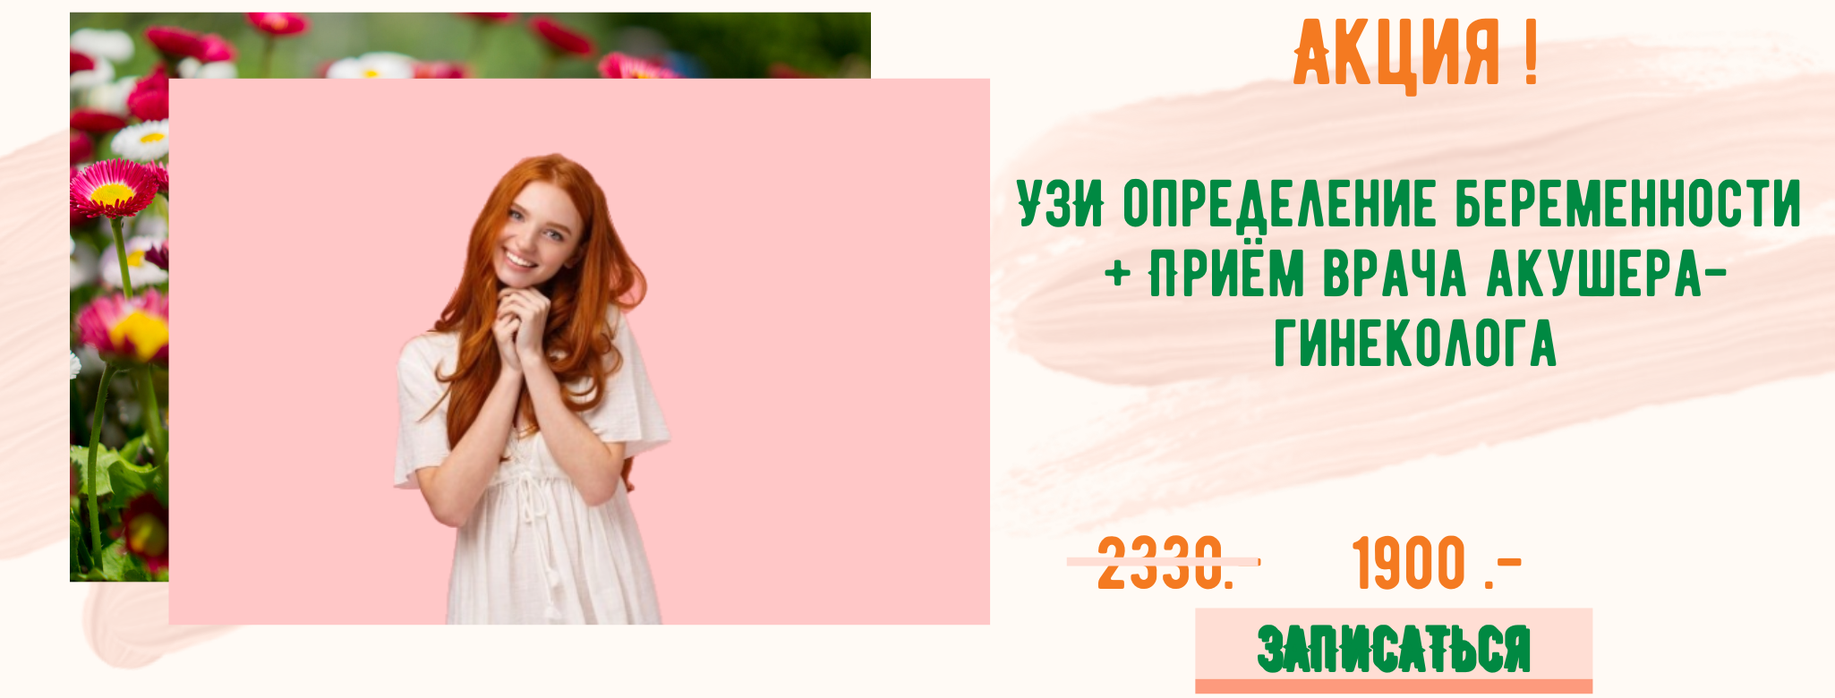
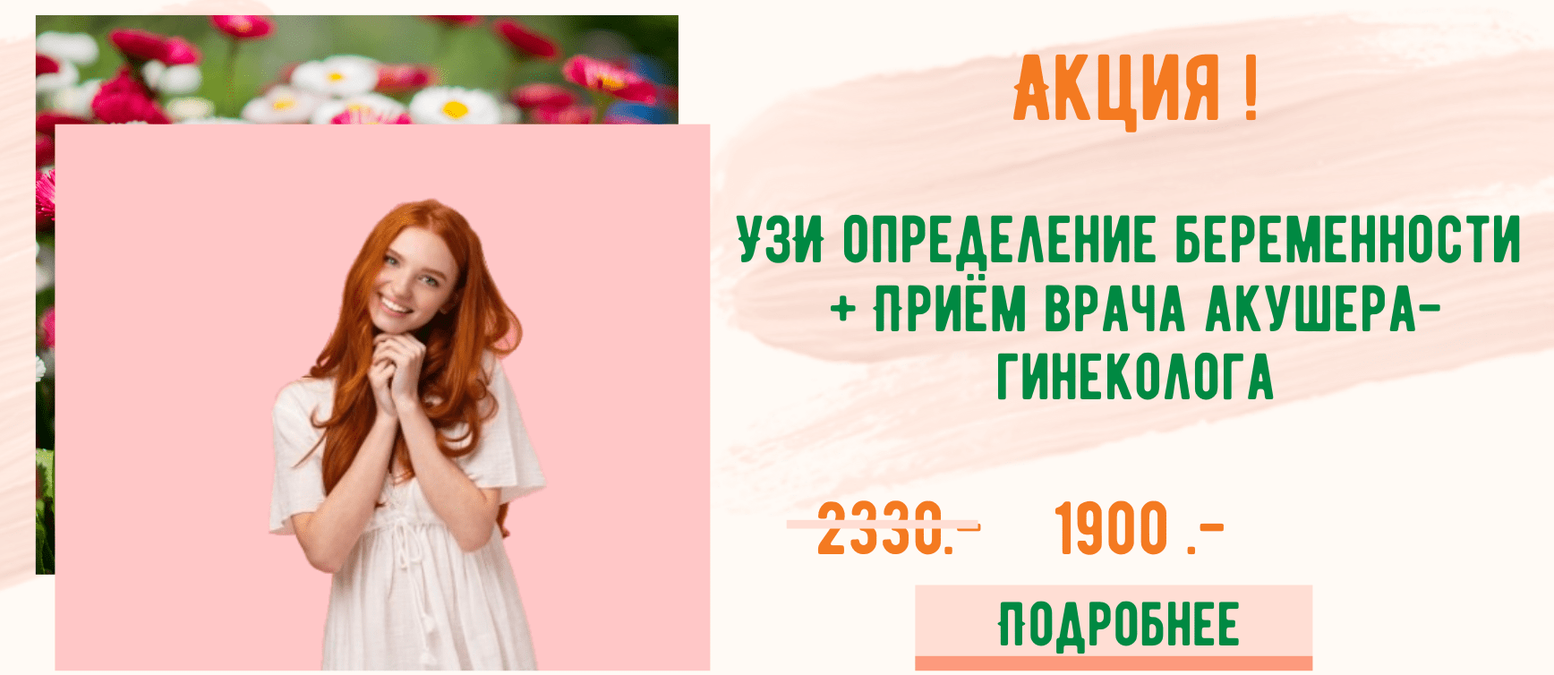
new pics

diff --git a/src/pages/uzi.js b/src/pages/uzi.js
@@ -7,11 +7,11 @@ import { Waypoint } from 'react-waypoint'
 import Header from '../components/HeaderGeneric'
 
 
-import offer01 from '../assets/images/offer_01.png';
-import offer02 from '../assets/images/offer_02.png';
-import offer03 from '../assets/images/offer_03.png';
-import offer04 from '../assets/images/offer_04.png';
-import offer05 from '../assets/images/offer_05.png';
+import offer01 from '../assets/images/1.png';
+import offer02 from '../assets/images/2.png';
+import offer03 from '../assets/images/3.png';
+import offer04 from '../assets/images/4.png';
+import offer05 from '../assets/images/5.png';
 
 
 class Generic extends React.Component {
@@ -57,28 +57,44 @@ class Generic extends React.Component {
             <p>Выявить причину и назначить лечение поможет оборудование экспертного класса и расшифровка от опытных специалистов!</p>
             <br/>
             
-            <a href="https://www.doctor-chita.ru/contactform/" target="_blank">
-            <img src={offer04} alt="Ваш + Доктор | УЗИ" width="100%"/>
-            <h2>АКЦИЯ ! УЗИ молочных желез с цветным доплеровским картированием + УЗИ щитовидной железы 990 рублей (вместо 1510 рублей)</h2>
-            </a>
             
-            
-            
+            <header class="major">
+            <h2>АКЦИЯ!</h2>
+            </header>
             <a href="https://www.doctor-chita.ru/contactform/" target="_blank">
             <img src={offer02} alt="Ваш + Доктор | Гинеколог" width="100%"/>
-            <h2>АКЦИЯ ! Прием (осмотр и консультация) врача акушера-гинеколога первичный + проведение УЗИ определения беременности 1900 рублей (вместо 2330 рублей )</h2>
             </a>
+            <h3>УЗИ молочных желез с цветным доплеровским картированием + УЗИ щитовидной железы 990 рублей (вместо 1510 рублей)</h3>
             
             
+            
+            <header class="major">
+            <h2>АКЦИЯ!</h2>
+            </header>
             <a href="https://www.doctor-chita.ru/contactform/" target="_blank">
-            <img src={offer03} alt="Ваш + Доктор | Гинеколог" width="100%"/>
-            <h2>АКЦИЯ ! Прием (осмотр и консультация) врача акушера-гинеколога первичный + проведение УЗИ матки и придатков трансвагинального за 1175 рублей (вместо 1500 рублей )</h2>
+            <img src={offer01} alt="Ваш + Доктор | Гинеколог" width="100%"/>
             </a>
-            
+            <h3>Прием (осмотр и консультация) врача акушера-гинеколога первичный + проведение УЗИ определения беременности 1900 рублей (вместо 2330 рублей)</h3>
+
+
+            <header class="major">
+            <h2>АКЦИЯ!</h2>
+            </header>
             <a href="https://www.doctor-chita.ru/contactform/" target="_blank">
             <img src={offer05} alt="Ваш + Доктор | Гинеколог" width="100%"/>
-            <h2>Прием (осмотр и консультация) врача акушера-гинеколога при планировании беременности + УЗИ за 1900 рублей (вместо 2330 рублей)</h2>
             </a>
+            <h3>Прием (осмотр и консультация) врача акушера-гинеколога первичный + проведение УЗИ матки и придатков трансвагинального за 1175 рублей (вместо 1500 рублей)</h3>
+
+
+            <header class="major">
+            <h2>АКЦИЯ!</h2>
+            </header>
+            <a href="https://www.doctor-chita.ru/contactform/" target="_blank">
+            <img src={offer04} alt="Ваш + Доктор | Гинеколог" width="100%"/>
+            </a>
+            <h3>Прием (осмотр и консультация) врача акушера-гинеколога при планировании беременности + УЗИ за 1900 рублей (вместо 2330 рублей)</h3>
+            
+      
             <p>Ультразвуковое исследование является одним из наиболее популярных и эффективных методов современной диагностики. С помощью УЗИ можно определить болезни внутренних органов, наличие новообразований, воспалений и других нарушений на различных стадиях. Клиника состоит из профессиональных врачей, которые производят сверхточную и тщательную процедуру исследования. Каждый специалист клиники имеет соответствующую квалификацию, что гарантирует высокие результаты ультразвуковой диагностики. Также, наши доктора в ходе УЗИ применяют только передовое оборудование. Наши специалисты используют инновационный УЗИ-сканер экспертного класса Philips HD 11 XE. «RoyalPhilips», голландский производитель УЗИ-сканера, занимает лидирующую позицию в производстве медицинских приборов, способных улучшить качество жизни людей.</p>
             <p>
               Основными достоинствами сканера Philips HD 11 XE являются:

diff --git a/src/pages/beremennost.js b/src/pages/beremennost.js
@@ -7,8 +7,8 @@ import Nav from '../components/NavGeneric'
 import { Waypoint } from 'react-waypoint'
 
 
-import offer02 from '../assets/images/offer_02.png';
-import offer03 from '../assets/images/offer_03.png';
+import offer04 from '../assets/images/4.png';
+import offer03 from '../assets/images/3.png';
 
 
 class Generic extends React.Component {
@@ -50,20 +50,27 @@ class Generic extends React.Component {
             <h2>Планирование ребёнка <br></br> Какие анализы нужно сдавать будущим родителям?</h2>
         </header>
             <p>Планирование ребёнка — это процесс, требующий особого внимания со стороны будущих родителей. Забота о здоровье ещё не появившегося на свет младенца — залог счастливой семейной жизни. Хотите узнать всё о состоянии Вашего здоровья и своевременно вылечить имеющиеся заболевания? Пройдите наиболее полное предварительное обследование «будущие родители» в центре Ваш + Доктор Чита!</p>
+            <header class="major">
+            <h2>АКЦИЯ!</h2>
+            </header>
             <a href="https://www.doctor-chita.ru/contactform/" target="_blank">
-            <img src={offer03} alt="Ваш + Доктор | Гинеколог" width="100%"/>
-            <h2>АКЦИЯ ! Прием (осмотр и консультация) врача акушера-гинеколога первичный + проведение УЗИ определения беременности 1900 рублей (вместо 2330 рублей )</h2>
+            <img src={offer04} alt="Ваш + Доктор | Гинеколог" width="100%"/>
             </a>
+            <h3>Прием (осмотр и консультация) врача акушера-гинеколога при планировании беременности + УЗИ за 1900 рублей (вместо 2330 рублей)</h3>
             <br/>
             <strong>Во-первых</strong>, важным шагом станет проведение анализов на <strong>половые гормоны и гормоны щитовидной железы</strong>, ведь именно они отвечают за возможность зачатия.
             <br></br><strong>Следующим этапом</strong> становится сдача анализов на <strong>инфекции</strong>, которые способны не только вызвать ряд воспалительных процессов, но и поставить под угрозу жизнь будущего ребёнка.
             <br></br><strong>Также</strong> следует учесть и анализы на <strong>TORCH-инфекции</strong>, которые приводят к ряду серьёзных заболеваний, вызывающих патологии у плода. В числе таких заболеваний - токсоплазмоз, краснуха, цитомегаловирусная инфекция, герпес. Данные инфекции относятся к внутриутробным и опасны именно для плода, хотя для мамы данные инфекции безвредны и никак клинически не проявляются. 
             <br></br>
             
+            <header class="major">
+            <h2>АКЦИЯ!</h2>
+            </header>
             <a href="https://www.doctor-chita.ru/contactform/" target="_blank">
-            <img src={offer02} alt="Ваш + Доктор | Гинеколог" width="100%"/>
-            <h2>АКЦИЯ ! ЭхоКГ плода во время беременности — 1500 р (вместо 2000 р)</h2>
+            <img src={offer03} alt="Ваш + Доктор | Гинеколог" width="100%"/>
             </a>
+            <h3>ЭхоКГ плода во время беременности — 1500 р (вместо 2000 р)</h3>
+            
             <br></br>
             <h3>Планирование беременности (Предгравидарная Подготовка):</h3>
             

diff --git a/src/pages/ginekologia.js b/src/pages/ginekologia.js
@@ -6,9 +6,10 @@ import Header from '../components/HeaderGeneric'
 import Nav from '../components/NavGeneric'
 import { Waypoint } from 'react-waypoint'
 import administrator from '../assets/images/administrator.jpg';
-import offer01 from '../assets/images/offer_01.png';
-import offer02 from '../assets/images/offer_02.png';
-import offer03 from '../assets/images/offer_03.png';
+
+import offer04 from '../assets/images/4.png';
+import offer01 from '../assets/images/1.png';
+import offer03 from '../assets/images/3.png';
 
 
 
@@ -55,18 +56,29 @@ class Generic extends React.Component {
             Однако в случае возникновения неудобств следует срочно обратиться ко врачу. Наиболее удобным для этого способом является запись к гинекологу через интернет. Вся процедура занимает несколько минут, и совершить ее можно в любом удобном для Вас месте.
             <br/>
             </p>
+            <header class="major">
+            <h2>АКЦИЯ!</h2>
+            </header>
             <a href="https://www.doctor-chita.ru/contactform/" target="_blank">
             <img src={offer01} alt="Ваш + Доктор | Гинеколог" width="100%"/>
             </a>
-            <h2>АКЦИЯ ! Прием (осмотр и консультация) врача акушера-гинеколога первичный + проведение УЗИ матки и придатков трансвагинального за 1175 рублей (вместо 1500 рублей )</h2>
+            <h3>Прием (осмотр и консультация) врача акушера-гинеколога первичный + проведение УЗИ определения беременности 1900 рублей (вместо 2330 рублей)</h3>
+            
+            <header class="major">
+            <h2>АКЦИЯ!</h2>
+            </header>
+            <a href="https://www.doctor-chita.ru/contactform/" target="_blank">
+            <img src={offer04} alt="Ваш + Доктор | Гинеколог" width="100%"/>
+            </a>
+            <h3>Прием (осмотр и консультация) врача акушера-гинеколога при планировании беременности + УЗИ за 1900 рублей (вместо 2330 рублей)</h3>
+
+            <header class="major">
+            <h2>АКЦИЯ!</h2>
+            </header>
             <a href="https://www.doctor-chita.ru/contactform/" target="_blank">
             <img src={offer03} alt="Ваш + Доктор | Гинеколог" width="100%"/>
             </a>
-            <a href="https://www.doctor-chita.ru/contactform/" target="_blank">
-            <h2>АКЦИЯ ! Прием (осмотр и консультация) врача акушера-гинеколога первичный + проведение УЗИ определения беременности 1900 рублей (вместо 2330 рублей )</h2>
-            <img src={offer02} alt="Ваш + Доктор | Гинеколог" width="100%"/>
-            </a>
-            <h2>АКЦИЯ ! ЭхоКГ плода во время беременности — 1500 р (вместо 2000 р)</h2>
+            <h3>ЭхоКГ плода во время беременности — 1500 р (вместо 2000 р)</h3>
             <p>
            Наиболее частой причиной обращения к гинекологу являются боли внизу живота. Существует масса причин их возникновения, которые могут условно разделяться на 2 группы: органические и функциональные. К первому типу относятся:
             <ul>

diff --git a/src/components/Header.js b/src/components/Header.js
@@ -10,9 +10,15 @@ import offer03 from '../assets/images/offer_03.png';
 import offer04 from '../assets/images/offer_04.png';
 import offer05 from '../assets/images/offer_05.png';
 
+
 const Header = (props) => (
+    
     <header id="header" className="alt">
-        <span className="logo"><br/><Link to="/"><img src={logo} alt="Ваш + Доктор | Лого" width="45%"/></Link></span>
+        <span className="logo"><br/>
+            <Link to="/">
+            <img src={logo} alt="Ваш + Доктор | Лого" width="45%"/>
+            </Link>
+        </span>
         
       
             <Link 
@@ -21,37 +27,42 @@ const Header = (props) => (
                 ЗАПИСАТЬСЯ НА ПРИЁМ
             </a>
             </Link>
-            <Slider 
-        dots
-        autoplaySpeed='6000' 
-        autoplay>
-          <a href="https://www.doctor-chita.ru/contactform/" target="_blank">
-          <div>
-          <img src={offer01} alt="Ваш + Доктор | Скидки" width="100%"/>
-          </div>
-          </a>
-          <a href="https://www.doctor-chita.ru/contactform/" target="_blank">
-          <div>
-          <img src={offer02} alt="Ваш + Доктор | Скидки" width="100%"/>
-          </div>
-          </a>
-          <a href="https://www.doctor-chita.ru/contactform/" target="_blank">
-          <div>
-          <img src={offer03} alt="Ваш + Доктор | Скидки" width="100%"/>
-          </div>
-          </a>
-          <a href="https://www.doctor-chita.ru/contactform/" target="_blank">
-          <div>
-          <img src={offer04} alt="Ваш + Доктор | Скидки" width="100%"/>
-          </div>
-          </a>
-          <a href="https://www.doctor-chita.ru/contactform/" target="_blank">
-          <div>
-          <img src={offer05} alt="Ваш + Доктор | Скидки" width="100%"/>
-          </div>
-          </a>
-        </Slider>
+            
+            
+            
           
+            <Slider 
+            dots
+            autoplaySpeed='3000' 
+            autoplay
+            >
+                <a href="https://www.doctor-chita.ru/ginekologia" target="_blank">
+                <div>
+                <img src={offer01} alt="Ваш + Доктор | Скидки" width="100%"/>
+                </div>
+                </a>
+                <a href="https://www.doctor-chita.ru/beremennost" target="_blank">
+                <div>
+                <img src={offer02} alt="Ваш + Доктор | Скидки" width="100%"/>
+                </div>
+                </a>
+                <a href="https://www.doctor-chita.ru/beremennost" target="_blank">
+                <div>
+                <img src={offer03} alt="Ваш + Доктор | Скидки" width="100%"/>
+                </div>
+                </a>
+                <a href="https://www.doctor-chita.ru/uzi" target="_blank">
+                <div>
+                <img src={offer04} alt="Ваш + Доктор | Скидки" width="100%"/>
+                </div>
+                </a>
+                <a href="https://www.doctor-chita.ru/uzi" target="_blank">
+                <div>
+                <img src={offer05} alt="Ваш + Доктор | Скидки" width="100%"/>
+                </div>
+                </a>
+            </Slider>
+            
     </header>
     
 )

diff --git a/src/components/HeaderGeneric.js b/src/components/HeaderGeneric.js
@@ -22,35 +22,36 @@ const HeaderGeneric = (props) => (
         </a>
         </Link> 
         <Slider 
-        dots
-        autoplaySpeed='6000' 
-        autoplay>
-          <a href="https://www.doctor-chita.ru/contactform/" target="_blank">
-          <div>
-          <img src={offer01} alt="Ваш + Доктор | Скидки" width="100%"/>
-          </div>
-          </a>
-          <a href="https://www.doctor-chita.ru/contactform/" target="_blank">
-          <div>
-          <img src={offer02} alt="Ваш + Доктор | Скидки" width="100%"/>
-          </div>
-          </a>
-          <a href="https://www.doctor-chita.ru/contactform/" target="_blank">
-          <div>
-          <img src={offer03} alt="Ваш + Доктор | Скидки" width="100%"/>
-          </div>
-          </a>
-          <a href="https://www.doctor-chita.ru/contactform/" target="_blank">
-          <div>
-          <img src={offer04} alt="Ваш + Доктор | Скидки" width="100%"/>
-          </div>
-          </a>
-          <a href="https://www.doctor-chita.ru/contactform/" target="_blank">
-          <div>
-          <img src={offer05} alt="Ваш + Доктор | Скидки" width="100%"/>
-          </div>
-          </a>
-        </Slider>
+            dots
+            autoplaySpeed='3000' 
+            autoplay
+            >
+                <a href="https://www.doctor-chita.ru/ginekologia" target="_blank">
+                <div>
+                <img src={offer01} alt="Ваш + Доктор | Скидки" width="100%"/>
+                </div>
+                </a>
+                <a href="https://www.doctor-chita.ru/beremennost" target="_blank">
+                <div>
+                <img src={offer02} alt="Ваш + Доктор | Скидки" width="100%"/>
+                </div>
+                </a>
+                <a href="https://www.doctor-chita.ru/beremennost" target="_blank">
+                <div>
+                <img src={offer03} alt="Ваш + Доктор | Скидки" width="100%"/>
+                </div>
+                </a>
+                <a href="https://www.doctor-chita.ru/uzi" target="_blank">
+                <div>
+                <img src={offer04} alt="Ваш + Доктор | Скидки" width="100%"/>
+                </div>
+                </a>
+                <a href="https://www.doctor-chita.ru/uzi" target="_blank">
+                <div>
+                <img src={offer05} alt="Ваш + Доктор | Скидки" width="100%"/>
+                </div>
+                </a>
+            </Slider>
         
 
        </header>
